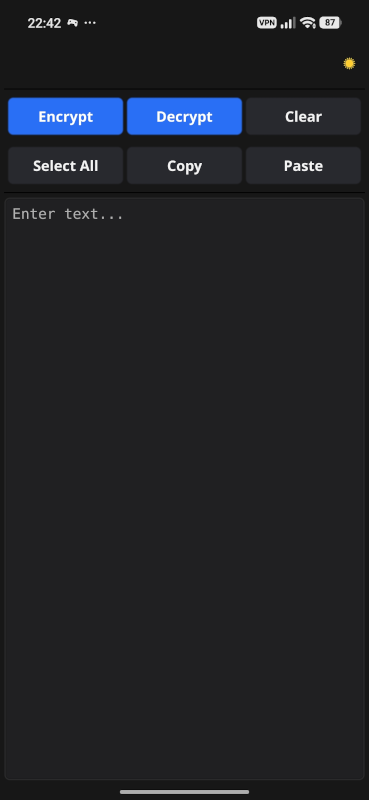
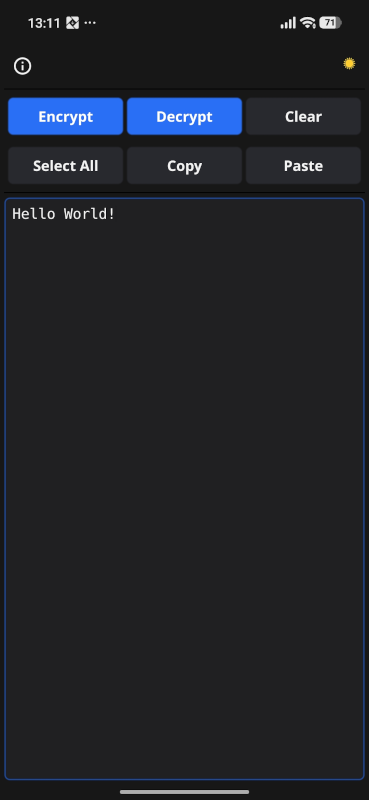
Add files via upload

diff --git a/localization/MicroCrypt-de.go b/localization/MicroCrypt-de.go
@@ -6,6 +6,7 @@ import (
 	"crypto/rand"
 	"encoding/base64"
 	"errors"
+    "net/url"
 	"strings"
 	"sync"
 	"time"
@@ -101,8 +102,8 @@ func (se *SecureEntry) GetText() string {
 }
 
 // WithBuffer führt die übergebene Funktion mit direktem Zugriff auf den geschützten Puffer aus.
-// Dies vermeidet die Erstellung ungeschützter String-Kopien und ist die bevorzugte Methode zur Verarbeitung sensibler Daten.
-
+// Dies vermeidet die Erstellung ungeschützter String-Kopien und ist die bevorzugte Methode
+// zur Verarbeitung sensibler Daten.
 func (se *SecureEntry) WithBuffer(fn func(*memguard.LockedBuffer) error) error {
 	se.mu.Lock()
 	defer se.mu.Unlock()
@@ -361,6 +362,41 @@ func (e *SecureEditor) getThemeIcon() string {
 }
 
 // setupMobileUI erstellt das responsive Benutzeroberflächen-Layout
+func (e *SecureEditor) showInfoPopup() {
+	projURL, _ := url.Parse("https://github.com/Ch1ffr3punk/MicroCrypt")
+	
+	projectLink := widget.NewHyperlink("Ein Open Source Projekt", projURL)
+	
+	okButton := widget.NewButton("OK", func() {
+		overlays := e.window.Canvas().Overlays()
+		if overlays.Top() != nil {
+			overlays.Remove(overlays.Top())
+		}
+	})
+	okButton.Importance = widget.HighImportance
+	
+	content := container.NewVBox(
+		widget.NewLabelWithStyle("MicroCrypt v0.1.2", fyne.TextAlignCenter, fyne.TextStyle{Bold: true}),
+		widget.NewSeparator(),
+		container.NewHBox(
+			layout.NewSpacer(),
+			projectLink,
+			layout.NewSpacer(),
+		),
+		widget.NewLabelWithStyle("veröffentlicht unter der Apache 2.0 Lizenz", fyne.TextAlignCenter, fyne.TextStyle{}),
+		widget.NewLabelWithStyle("© 2026 Ch1ffr3punk", fyne.TextAlignCenter, fyne.TextStyle{}),
+		widget.NewLabel(""),
+		container.NewHBox(
+			layout.NewSpacer(),
+			okButton,
+			layout.NewSpacer(),
+		),
+	)
+
+	dialog.ShowCustomWithoutButtons("", content, e.window)
+}
+
+// setupMobileUI constructs the responsive user interface layout
 func (e *SecureEditor) setupMobileUI() fyne.CanvasObject {
 	e.textArea = NewSecureEntry()
 	e.textArea.SetPlaceHolder("Text eingeben...")
@@ -381,12 +417,21 @@ func (e *SecureEditor) setupMobileUI() fyne.CanvasObject {
 	pasteBtn := widget.NewButton("Einfügen", e.pasteFromClipboard)
 	pasteBtn.Importance = widget.MediumImportance
 
-	// Theme-Umschaltknopf mit Emoji-Icon (Android-kompatibel)
+	// Create info button
+	infoBtn := widget.NewButtonWithIcon("", theme.InfoIcon(), e.showInfoPopup)
+	infoBtn.Importance = widget.LowImportance
+	
+	// Themen Wechsel Button (Android-kompatibel)
 	e.themeSwitch = widget.NewButton(e.getThemeIcon(), e.toggleTheme)
 	e.themeSwitch.Importance = widget.LowImportance
 
-	topBar := container.NewHBox(layout.NewSpacer(), e.themeSwitch)
-
+	// Top bar mit info button links und theme button rechts
+	topBar := container.NewHBox(
+		infoBtn,
+		layout.NewSpacer(),
+		e.themeSwitch,
+	)
+	
 	// Responsives Layout basierend auf Bildschirmgröße
 	var firstButtonRow fyne.CanvasObject
 	var secondButtonRow fyne.CanvasObject
@@ -743,8 +788,6 @@ func (e *SecureEditor) decryptText() {
 		}
 
 		// Tatsächliche Entschlüsselung durchführen
-        // Hinweis: Die Logik „performDecryption“ wird hierher verschoben/integriert oder unter der Voraussetzung aufgerufen, 
-        // dass die Sperre bereits gesetzt ist.
 		decryptedText, decErr := e.internalDecrypt(text, passphrase)
 		
 		if decErr != nil {
@@ -798,7 +841,7 @@ func (e *SecureEditor) internalDecrypt(encryptedData string, passphrase *memguar
 	// Entschlüsseln und Authentifizierungs-Tag verifizieren
 	plaintext, err := aesgcm.Open(nil, nonce, ciphertext, nil)
 	if err != nil {
-		return "", errors.New("Authentifizierung fehlgeschlagen: falsches Passwort oder korrupte Daten")
+		return "", errors.New("Authentifizierung fehlgeschlagen:\nFalsches Passwort oder korrupte Daten")
 	}
 
 	// Sicherheits-Padding entfernen (Verkehrsanalyse-Resistenz)

diff --git a/MicroCrypt.go b/MicroCrypt.go
@@ -6,6 +6,7 @@ import (
 	"crypto/rand"
 	"encoding/base64"
 	"errors"
+	"net/url"
 	"strings"
 	"sync"
 	"time"
@@ -102,7 +103,6 @@ func (se *SecureEntry) GetText() string {
 
 // WithBuffer executes the provided function with direct access to the protected buffer.
 // This avoids creating unprotected string copies and is the preferred way to process sensitive data.
-
 func (se *SecureEntry) WithBuffer(fn func(*memguard.LockedBuffer) error) error {
 	se.mu.Lock()
 	defer se.mu.Unlock()
@@ -360,6 +360,41 @@ func (e *SecureEditor) getThemeIcon() string {
 	return "🌙"
 }
 
+// showInfoPopup displays information about the application
+func (e *SecureEditor) showInfoPopup() {
+	projURL, _ := url.Parse("https://github.com/Ch1ffr3punk/MicroCrypt")
+	
+	projectLink := widget.NewHyperlink("An Open Source project", projURL)
+	
+	okButton := widget.NewButton("OK", func() {
+		overlays := e.window.Canvas().Overlays()
+		if overlays.Top() != nil {
+			overlays.Remove(overlays.Top())
+		}
+	})
+	okButton.Importance = widget.HighImportance
+	
+	content := container.NewVBox(
+		widget.NewLabelWithStyle("MicroCrypt v0.1.2", fyne.TextAlignCenter, fyne.TextStyle{Bold: true}),
+		widget.NewSeparator(),
+		container.NewHBox(
+			layout.NewSpacer(),
+			projectLink,
+			layout.NewSpacer(),
+		),
+		widget.NewLabelWithStyle("released under the Apache 2.0 license", fyne.TextAlignCenter, fyne.TextStyle{}),
+		widget.NewLabelWithStyle("© 2026 Ch1ffr3punk", fyne.TextAlignCenter, fyne.TextStyle{}),
+		widget.NewLabel(""),
+		container.NewHBox(
+			layout.NewSpacer(),
+			okButton,
+			layout.NewSpacer(),
+		),
+	)
+
+	dialog.ShowCustomWithoutButtons("", content, e.window)
+}
+
 // setupMobileUI constructs the responsive user interface layout
 func (e *SecureEditor) setupMobileUI() fyne.CanvasObject {
 	e.textArea = NewSecureEntry()
@@ -381,11 +416,20 @@ func (e *SecureEditor) setupMobileUI() fyne.CanvasObject {
 	pasteBtn := widget.NewButton("Paste", e.pasteFromClipboard)
 	pasteBtn.Importance = widget.MediumImportance
 
+	// Create info button
+	infoBtn := widget.NewButtonWithIcon("", theme.InfoIcon(), e.showInfoPopup)
+	infoBtn.Importance = widget.LowImportance
+	
 	// Theme toggle button with emoji icon (Android-compatible)
 	e.themeSwitch = widget.NewButton(e.getThemeIcon(), e.toggleTheme)
 	e.themeSwitch.Importance = widget.LowImportance
 
-	topBar := container.NewHBox(layout.NewSpacer(), e.themeSwitch)
+	// Top bar with info button on left and theme button on right
+	topBar := container.NewHBox(
+		infoBtn,
+		layout.NewSpacer(),
+		e.themeSwitch,
+	)
 
 	// Responsive layout based on screen size
 	var firstButtonRow fyne.CanvasObject

diff --git a/README.md b/README.md
@@ -1,7 +1,7 @@
 # MicroCrypt
 
 MicroCrypt is a small, cross-platform symmetric encryption tool for    
-mobile devices and desktop computers. It focuses on simplicity, portability,  
+desktop and mobile devices. It focuses on simplicity, portability,  
 and modern cryptographic defaults while avoiding unnecessary metadata  
 in encrypted output.    
 
@@ -37,15 +37,14 @@ MicroCrypt uses the following components:
    integrity of the encrypted data.    
 
 2. **Argon2id**
-   A memory-hard password-based key derivation function designed
-   to resist brute-force and GPU-based attacks.  
-   Parameters:       
+   A memory-hard password-based key derivation function designed to    
+   resist brute-force and GPU-based attacks. Parameters:     
    - Time: 3 passes    
    - Memory: 64 MB    
    - Parallelism: 4 threads    
 
-4. **ISO/IEC 7816-4 Padding**
-   Data is padded to 1 KB boundaries before encryption. This helps
+3. **ISO/IEC 7816-4 Padding**
+   Data is padded to 1 KB boundaries before encryption. This helps    
    reduce leakage about the original file size.    
 
 ## Encrypted Output Format
@@ -64,19 +63,19 @@ every 24 characters for easier handling.
 ## Use Cases
 
  MicroCrypt is suitable for:    
- - Encrypting private messages or notes with a simple GUI   
+ - Encrypting private Messages or notes with a simple GUI   
  - Cross-platform workflows where the same tool is needed on desktop and     
    Android or iOS   
  - Users who want strong encryption without complex configuration    
  - Situations where avoiding metadata leakage is important    
 
  MicroCrypt is not intended for:
- - Input of large messages or pasting files   
+ - For input of large messages or pasting files   
  - Public-key encryption or key exchange Workflows    
  - Enterprise or multi-user key Management    
  - Automated or scripted encryption Pipelines    
 
-Special thanks go to [Maria Sophia](https://newsgrouper.org/comp.mobile.android/1772049649/1772488033) for valuable feedback, and to [Ffna Sol](https://www.fiverr.com/ffna_sol) for the MicroCrypt icon design.      
+Special thanks go to [Maria Sophia](https://newsgrouper.org/comp.mobile.android/1772049649/1772488033) and [Arno Welzel](https://arnowelzel.de/) for their valuable feedback, and to [Ffna Sol](https://www.fiverr.com/ffna_sol) for the MicroCrypt icon design.      
 
 ![MicroCrypt](img/1.png)  
 
